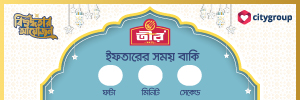
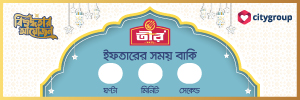
countdown bg modified

diff --git a/mobile.html b/mobile.html
@@ -6,8 +6,8 @@
 	height:100px;
 	font-family:solaimanlipi;
 	font-size: 20px;
-	/*background-image: url("./images/iftar-bg-300x100.jpg");*/
-	background-image: url("https://gumlet.assettype.com/bdnews24/2023-03/3ba6ed2b-0a33-4c4b-8d16-77ee22bad5e6/iftar_bg_300x100.jpg");
+	background-image: url("./images/iftar-bg-300x100.jpg");
+	/*background-image: url("https://gumlet.assettype.com/bdnews24/2023-03/3ba6ed2b-0a33-4c4b-8d16-77ee22bad5e6/iftar_bg_300x100.jpg");*/
 	background-repeat:no-repeat;
 }
 #iftar_countdown_right img{height:48px;}

diff --git a/desktop.html b/desktop.html
@@ -6,8 +6,8 @@
    height:60;
    font-family:solaimanlipi;
    background-color:#f2f2f2;
-   background-color:green;
-   background-image: url("https://gumlet.assettype.com/bdnews24/2023-03/fac14648-cec4-4c37-93b0-0aa703cf5f4d/iftar_bg_970_2023.jpg");
+   background-image: url("./images/iftar-bg-970-2023.jpg");
+   /*background-image: url("https://gumlet.assettype.com/bdnews24/2023-03/fac14648-cec4-4c37-93b0-0aa703cf5f4d/iftar_bg_970_2023.jpg");*/
    background-repeat:no-repeat;
    /*display: flex;*/
    }
